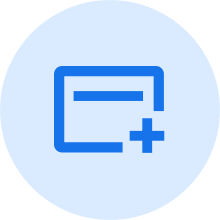
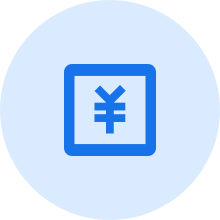
1、当日挂号接口参数调整 2、首页绑卡菜单替换 3、使用localStorage替换sessionStorage

Changed region(s): [[0.2455, 0.2727, 0.7636, 0.7091]]

diff --git a/src/App.vue b/src/App.vue
@@ -24,7 +24,7 @@
     data() {
       return {
         transitionName: '',
-        token: sessionStorage.getItem('AccessToken')
+        token: true || localStorage.getItem('AccessToken')
       };
     },
     created() {
@@ -32,7 +32,7 @@
     },
     methods: {
       exeLogin() {
-        const {AccessToken} = sessionStorage;
+        const {AccessToken} = localStorage;
         if (!AccessToken) {
           const code = getQueryParams('code');
           if (!code) {
@@ -67,7 +67,7 @@
             res = res || {};
             const {data, success} = res;
             if (success) {
-              sessionStorage.setItem('AccessToken', 'Bearer ' + data);
+              localStorage.setItem('AccessToken', 'Bearer ' + data);
               this.selectGrantLogin(params)
                 .then((res) => {
                   const {data, success} = res;
@@ -76,19 +76,19 @@
                     const {baseUrl} = sessionStorage;
                     window.location.replace(baseUrl);
                   } else {
-                    sessionStorage.removeItem('AccessToken');
+                    localStorage.removeItem('AccessToken');
                   }
                 })
                 .catch((err) => {
-                  sessionStorage.removeItem('AccessToken');
+                  localStorage.removeItem('AccessToken');
                   console.log(err);
                 });
             } else {
-              sessionStorage.removeItem('AccessToken');
+              localStorage.removeItem('AccessToken');
             }
           })
           .catch((err) => {
-            sessionStorage.removeItem('AccessToken');
+            localStorage.removeItem('AccessToken');
             console.log(err);
           });
       },

diff --git a/src/containers/YYXX/Controller.js b/src/containers/YYXX/Controller.js
@@ -2,7 +2,8 @@ import {mapActions} from 'vuex';
 
 const controller = {
   handlerSubmit() {
-    const {isPre} = this.$route || {};
+    const {query} = this.$route || {};
+    const {isPre} = query || {};
     if (parseInt(isPre)) {
       // 预约挂号
       this.exeSelectAppointmentCreate();
@@ -38,17 +39,17 @@ const controller = {
       });
   },
   exeSelectTodayCreate() {
-    const {query} = this.$route;
+    const {query} = this.$route || {};
     const data = {
       classId: query.classId,
       deptCode: query.deptCode,
-      regLevel: query.isExpert ? 'ZJ' : 'PT',
+      regLevel: query.regCode,
       regType: query.isExpert ? 'ZJ' : 'PT',
       clinicFee: query.clinicFee,
-      doctCode: query.doctCode,
+      doctCode: query.doctCode || '',
       noonCode: query.noonCode,
-      regDate: query.regDate,
-      regTime: ''
+      regDate: query.preTime,
+      regTime: query.timeSolt
     };
     this.selectTodayCreate(data)
       .then((res) => {
@@ -70,7 +71,7 @@ const controller = {
       });
   },
   exeSelectAppointmentCreate() {
-    const {query} = this.$route;
+    const {query} = this.$route || {};
     const data = {
       classId: query.classId,
       deptCode: query.deptCode,

diff --git a/src/login.js b/src/login.js
@@ -22,9 +22,9 @@ export const saveLocalStorage = (data) => {
     WechatAccessToken,
     WechatRefreshToken
   } = data;
-  sessionStorage.setItem('WechatAppId', WechatAppId);
-  sessionStorage.setItem('AccessToken', 'Bearer ' + AccessToken);
-  sessionStorage.setItem('RefreshToken', RefreshToken);
-  sessionStorage.setItem('WechatAccessToken', WechatAccessToken);
-  sessionStorage.setItem('WechatRefreshToken', WechatRefreshToken);
+  localStorage.setItem('WechatAppId', WechatAppId);
+  localStorage.setItem('AccessToken', 'Bearer ' + AccessToken);
+  localStorage.setItem('RefreshToken', RefreshToken);
+  localStorage.setItem('WechatAccessToken', WechatAccessToken);
+  localStorage.setItem('WechatRefreshToken', WechatRefreshToken);
 };

diff --git a/src/containers/KSXX/Controller.js b/src/containers/KSXX/Controller.js
@@ -14,6 +14,8 @@ const controller = {
         deptName: this.data.deptName,
         doctName: this.data.doctName,
         classId: item.schedulDay[number].classId,
+        regCode: item.schedulDay[number].regCode,
+        timeSolt: item.schedulDay[number].timeSolt,
         noonCode: item.schedulDay[number].noonCode,
         clinicFee: item.schedulDay[number].totalFee
       };

diff --git a/src/containers/YSZY/Controller.js b/src/containers/YSZY/Controller.js
@@ -14,6 +14,8 @@ const controller = {
         deptName: this.data.deptName,
         doctName: this.data.doctName,
         classId: item.schedulDay[number].classId,
+        regCode: item.schedulDay[number].regCode,
+        timeSolt: item.schedulDay[number].timeSolt,
         noonCode: item.schedulDay[number].noonCode,
         clinicFee: item.schedulDay[number].totalFee
       };

diff --git a/src/apis/index.js b/src/apis/index.js
@@ -185,11 +185,13 @@ const apis = {
     params: {
       classId: '',
       deptCode: '',
-      isExpert: '',
-      preTime: '',
-      clinicFee: '',
-      subSource: '',
-      doctCode: ''
+      doctCode: '',
+      regLevel: '',
+      noonCode: '',
+      regType: '',
+      regDate: '',
+      regTime: '',
+      clinicFee: ''
     }
   },
   // 新增/修改健康档案

diff --git a/src/containers/YYXX/Index.vue b/src/containers/YYXX/Index.vue
@@ -47,13 +47,11 @@
         price: '',
         deptName: '',
         doctName: '',
-        payment: '微信支付',
-        jsApiList: {jsApiList: ['chooseWXPay']}
+        payment: '微信支付'
       };
     },
     created() {
       this.exeFillParams();
-      // this.exeSelectJSSDKConfig();
       this.exeSelectDefaultCard();
     },
     methods: Controller,

diff --git a/src/axios/axios.js b/src/axios/axios.js
@@ -8,7 +8,7 @@ axios.defaults.headers = apis.default.headers;
 
 axios.interceptors.request.use(
   config => {
-    const AccessToken = sessionStorage.getItem('AccessToken');
+    const AccessToken = localStorage.getItem('AccessToken');
     if (AccessToken) {
       config.headers = {'Authorization': AccessToken};
     }

diff --git a/src/containers/HOME/DHCD.vue b/src/containers/HOME/DHCD.vue
@@ -30,8 +30,8 @@
           },
           {
             image: require('../../assets/images/nav_icon03@2x.png'),
-            title: '绑卡',
-            path: this.$routes.KPBL.path,
+            title: '缴费',
+            path: this.$routes.JFJL.path,
             disabled: false
           },
           {

diff --git a/src/containers/HOME/XXTS.vue b/src/containers/HOME/XXTS.vue
@@ -73,6 +73,7 @@
       background-image: url('../../assets/images/news_icon@2x.png');
       .message {
         padding-left: 0.1rem;
+        font-weight: normal;
         font-size: 0.14rem;
         color: #333333;
       }

diff --git a/src/router/routes.js b/src/router/routes.js
@@ -24,7 +24,7 @@ const routes = {
     }
   },
   YYXX: {
-    path: '/YYGH/YSLB/YSZY/YYXX',
+    path: '/YYGH/YYXX',
     name: 'YYXX',
     meta: {index: 4},
     component: (component) => {

diff --git a/src/components/Loading.vue b/src/components/Loading.vue
@@ -21,6 +21,7 @@
     width: 100%;
     height: 100%;
     text-align: center;
+    font-size: 0;
     &:before {
       content: '';
       height: 100%;
